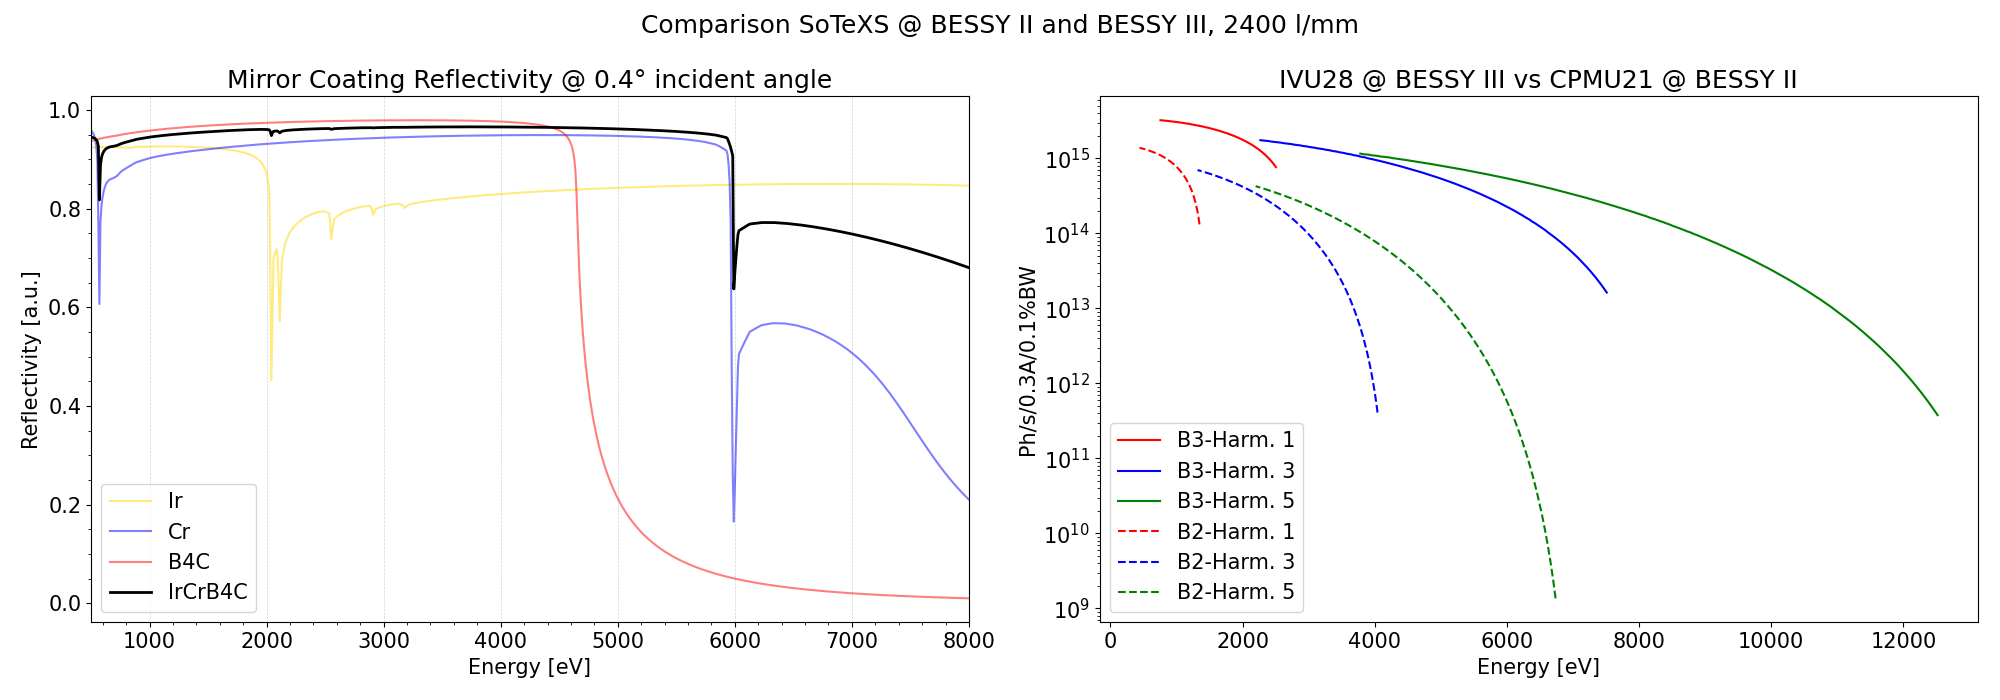
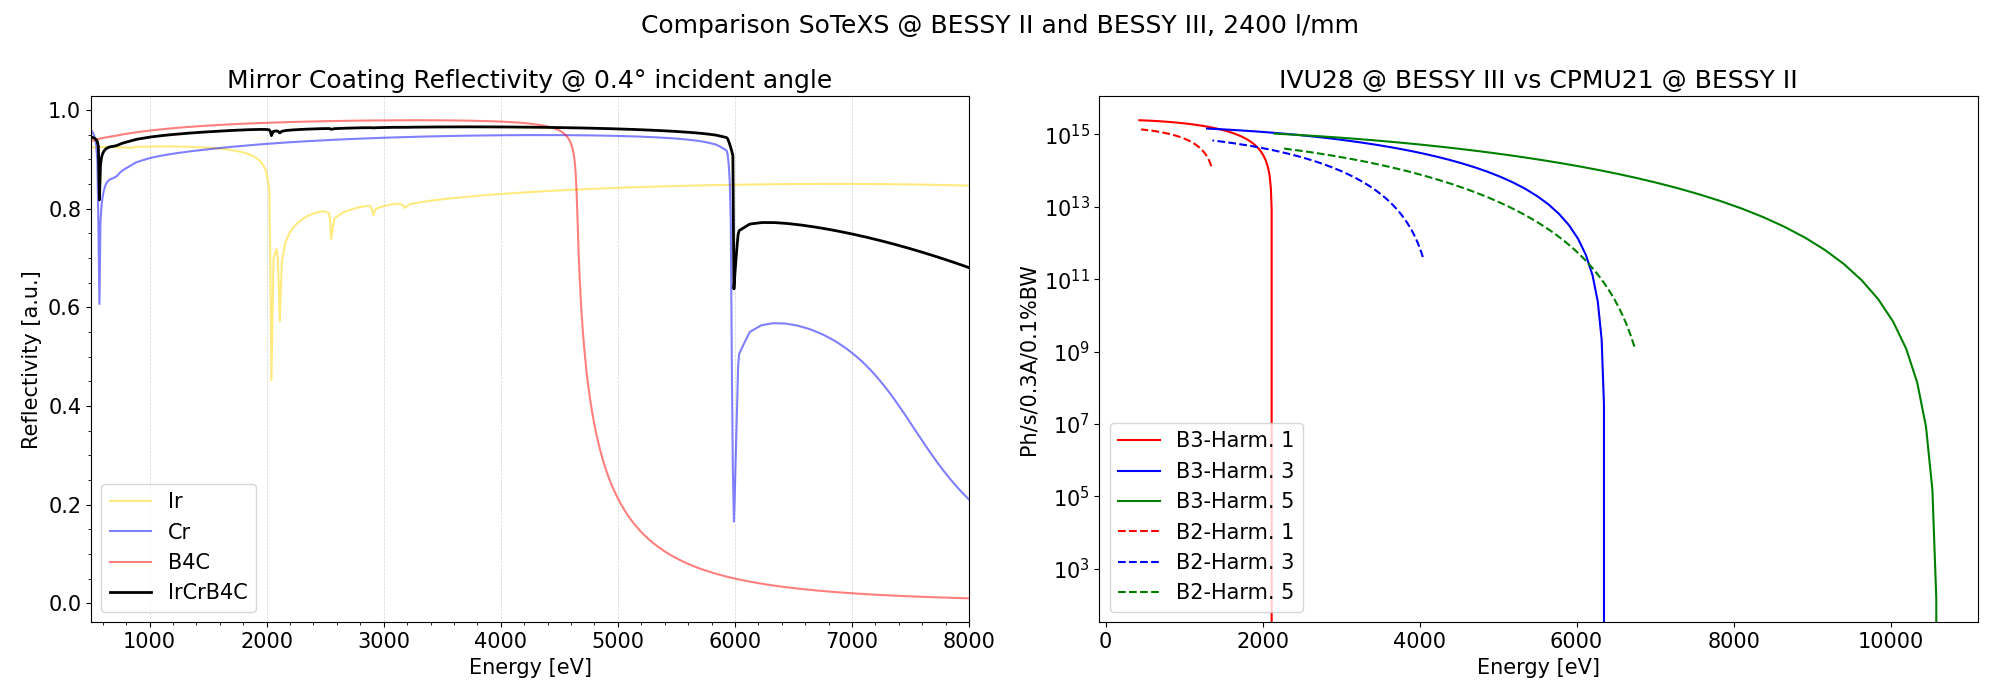
sotexs BII simulation_1200_Pt

diff --git a/beamlines/Signature1-SoTeXS/simulations/comparison_with_BII/params.py b/beamlines/Signature1-SoTeXS/simulations/comparison_with_BII/params.py
@@ -10,9 +10,13 @@ nrays       = 1e5
 
 
 # UNDULATOR
-undulator_file_path = os.path.join(
-                 'undulator',
-                 'CPMU20-6mm-harmonics.csv')
+undulator_file_path = os.path.abspath(
+                os.path.join(Path(__file__).resolve().parents[4],
+                 'undulators',
+                 'UndulatorFiles_BESSY_II',
+                 'BII-CPMU20-SoTeXs',
+                 'BII-CPMU20-SoTeXs-1.csv')
+)
 
 undulator = pd.read_csv(undulator_file_path)
 
@@ -70,7 +74,7 @@ else:
     })
 # params only for evaluation
 beamline_name = 'SoTeXS'
-# define undulator file
-undulator_file_path = os.path.join('undulator', 'CPMU20_B2l_k_dep_simp_all_harm_300mA.dbr')
-# Undulator SPECTRA
-undulator_spectra = np.loadtxt(undulator_file_path, skiprows=8)
+# # define undulator file
+# undulator_file_path = os.path.join('undulator', 'CPMU20_B2l_k_dep_simp_all_harm_300mA.dbr')
+# # Undulator SPECTRA
+# undulator_spectra = np.loadtxt(undulator_file_path, skiprows=8)

diff --git a/beamlines/Signature1-SoTeXS/simulations/comparison_with_BII/parameter3.py b/beamlines/Signature1-SoTeXS/simulations/comparison_with_BII/parameter3.py
@@ -14,7 +14,8 @@ undulator_file_path = os.path.abspath(
     os.path.join(Path(__file__).resolve().parents[4], 
                  'undulators',
                  'UndulatorFiles_BESSY_III',
-                 'CPMU21_300mA_100pmrad_x_100pmrad.csv')
+                 'IVU28',
+                 'IVU28-.csv')
 )
 
 undulator = pd.read_csv(undulator_file_path)
